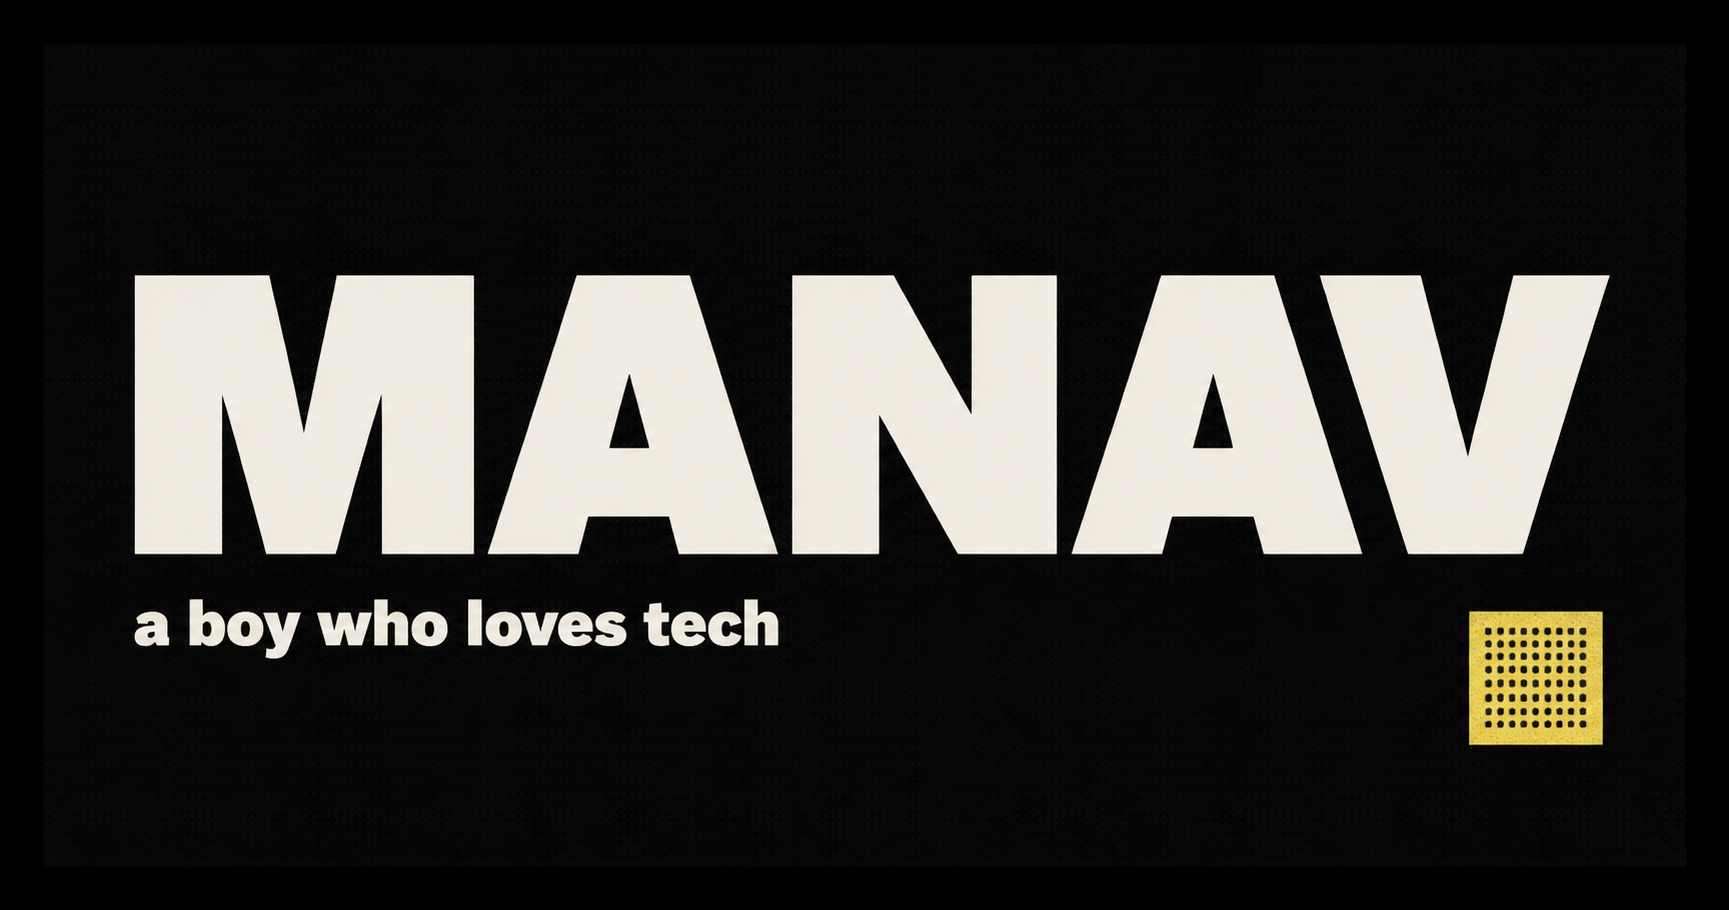
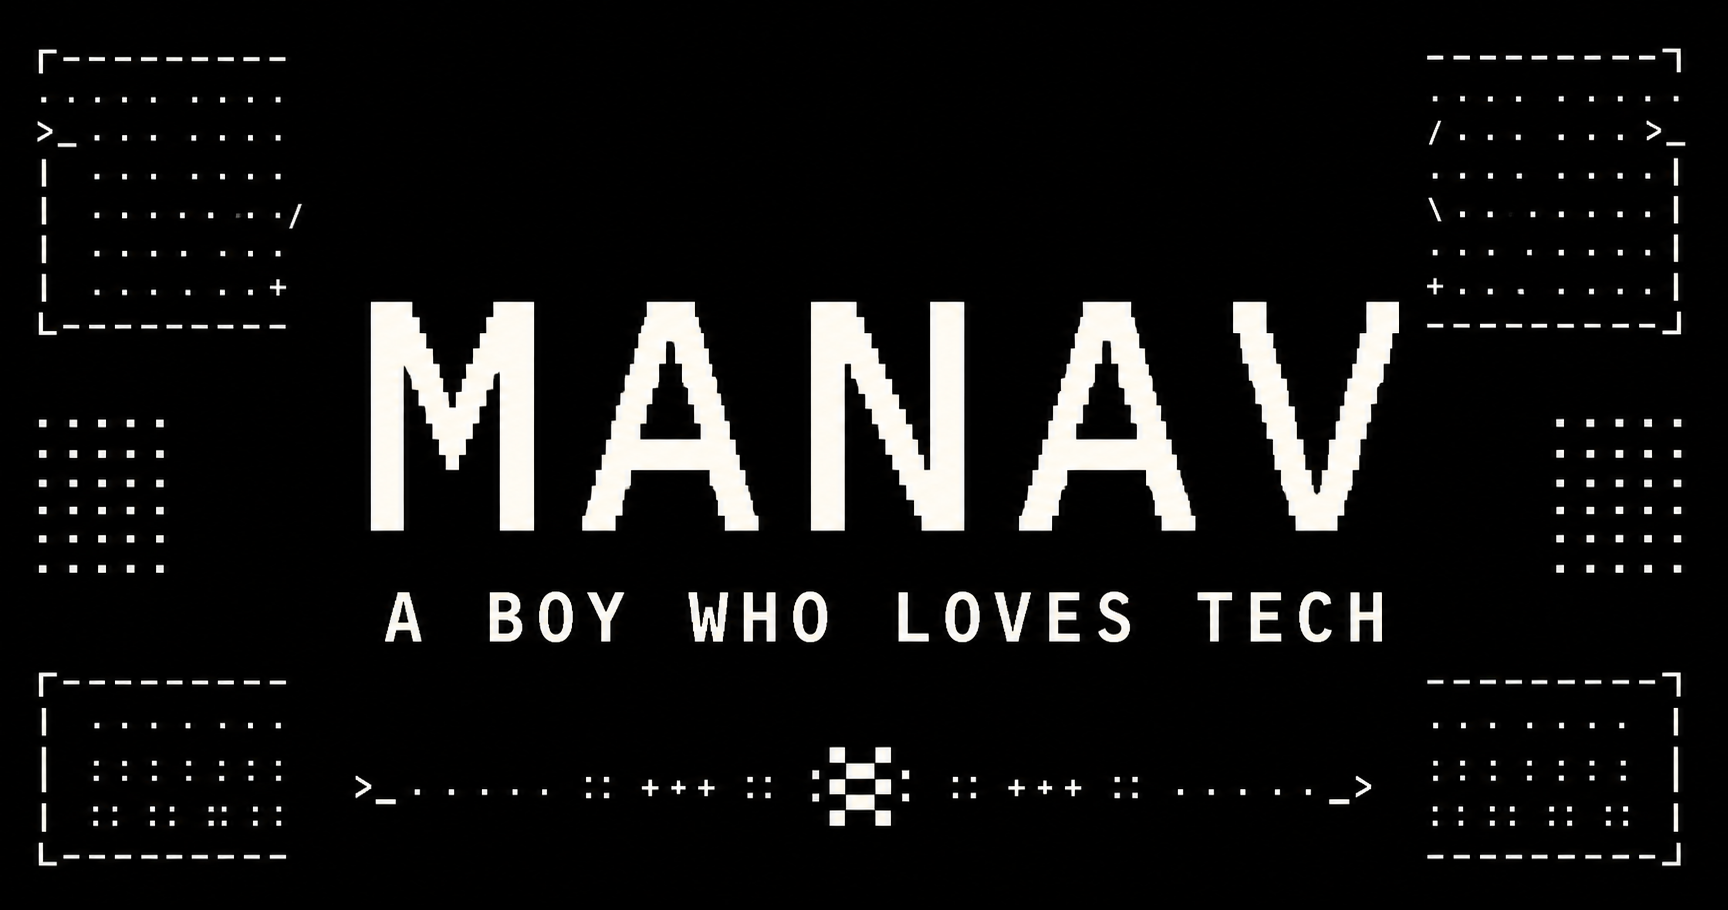
Apply monochrome IBM Plex Mono theme

diff --git a/app/globals.css b/app/globals.css
@@ -1,3 +1,4 @@
+@import url('https://fonts.googleapis.com/css2?family=IBM+Plex+Mono:wght@400;500;600;700&display=swap');
 @import 'tailwindcss';
 @import 'tw-animate-css';
 @import 'shadcn/tailwind.css';
@@ -20,9 +21,9 @@
   --color-border: var(--border);
   --color-input: var(--input);
   --color-ring: var(--ring);
-  --font-sans: Arial, Helvetica, sans-serif;
-  --font-serif: 'Times New Roman', Times, serif;
-  --font-heading: 'Arial Black', Arial, Helvetica, sans-serif;
+  --font-sans: 'IBM Plex Mono', monospace;
+  --font-serif: 'IBM Plex Mono', monospace;
+  --font-heading: 'IBM Plex Mono', monospace;
   --radius-sm: 0;
   --radius-md: 0;
   --radius-lg: 0;
@@ -32,21 +33,21 @@
 :root,
 .dark {
   color-scheme: dark;
-  --background: #050505;
-  --foreground: #f4f0e8;
-  --card: #101010;
-  --card-foreground: #f4f0e8;
-  --primary: #f1be22;
-  --primary-foreground: #050505;
-  --secondary: #1a1a1a;
-  --secondary-foreground: #f4f0e8;
-  --muted: #161616;
-  --muted-foreground: #b8b1a5;
-  --accent: #f1be22;
-  --accent-foreground: #050505;
-  --border: #4a4741;
-  --input: #2a2926;
-  --ring: #f1be22;
+  --background: #000;
+  --foreground: #fff;
+  --card: #000;
+  --card-foreground: #fff;
+  --primary: #fff;
+  --primary-foreground: #000;
+  --secondary: #000;
+  --secondary-foreground: #fff;
+  --muted: #000;
+  --muted-foreground: rgba(255, 255, 255, 0.72);
+  --accent: #fff;
+  --accent-foreground: #000;
+  --border: rgba(255, 255, 255, 0.55);
+  --input: #000;
+  --ring: #fff;
   --radius: 0px;
 }
 
@@ -63,12 +64,12 @@
     @apply bg-background text-foreground;
     margin: 0;
     min-width: 320px;
-    font-family: 'Times New Roman', Times, serif;
+    font-family: 'IBM Plex Mono', monospace;
   }
 
   ::selection {
-    background: #f1be22;
-    color: #050505;
+    background: #fff;
+    color: #000;
   }
 }
 
@@ -877,4 +878,137 @@ a {
     animation-duration: 0.01ms !important;
     animation-iteration-count: 1 !important;
   }
+}
+
+/* Monochrome portfolio treatment */
+body,
+body * {
+  font-family: 'IBM Plex Mono', monospace !important;
+}
+
+html,
+body,
+.landing-frame,
+.site-frame,
+.site-header,
+.site-footer,
+.page-title-block,
+.intro-panel,
+.content-section,
+.skills-panel,
+.social-panel,
+.design-card {
+  background: #000;
+  color: #fff;
+}
+
+.landing-frame::before {
+  background-image: radial-gradient(rgba(255, 255, 255, 0.18) 0.7px, transparent 0.7px);
+}
+
+.tint-olive,
+.tint-sage,
+.tint-salmon,
+.tint-peach,
+.tint-lime,
+.tint-sky,
+.tint-periwinkle {
+  background: #000;
+  border-color: rgba(255, 255, 255, 0.55);
+}
+
+.site-frame :is(p, span, h1, h2, h3, h4, a, dt, dd, small, li),
+.site-brand span,
+.eyebrow,
+.section-kicker,
+.project-status,
+.project-index,
+.education-years,
+.skills-list dt,
+.design-card-caption > p {
+  color: #fff;
+}
+
+.intro-copy,
+.education-row p:last-child,
+.skills-list dd,
+.social-list small,
+.projects-section-head > p,
+.software-card-content > p,
+.design-card-caption span,
+.site-footer {
+  color: rgba(255, 255, 255, 0.72);
+}
+
+.intro-copy strong {
+  color: #fff;
+}
+
+.intro-mark {
+  filter: grayscale(1) contrast(2);
+}
+
+.site-header,
+.site-footer,
+.page-title-block,
+.intro-panel,
+.content-section,
+.skills-panel,
+.social-panel,
+.design-card,
+.education-row,
+.social-list a,
+.skills-list > div,
+.section-heading-row,
+.section-number,
+.project-links,
+.project-links a,
+.software-card,
+.software-card-header,
+.project-index,
+.project-status,
+.design-card-caption,
+.design-card-wide .design-card-caption {
+  border-color: rgba(255, 255, 255, 0.55);
+}
+
+.site-nav a[aria-current='page'],
+.section-number {
+  background: #fff;
+  color: #000;
+}
+
+.site-nav a[aria-current='page'] *,
+.section-number * {
+  color: #000;
+}
+
+.retro-button,
+.archive-link,
+.site-footer a {
+  border-color: #fff;
+  color: #fff;
+  background: #000;
+}
+
+.retro-button:focus-visible,
+.site-nav a:focus-visible,
+.site-brand:focus-visible,
+.project-links a:focus-visible,
+.archive-link:focus-visible,
+.social-list a:focus-visible,
+.site-footer a:focus-visible {
+  outline-color: #fff;
+}
+
+.design-card img {
+  filter: grayscale(1) contrast(1.15);
+}
+
+.software-card,
+.software-card-header,
+.software-card-content,
+.software-card-content ul,
+.project-links {
+  color: #fff;
 }

diff --git a/components/ascii-text.jsx b/components/ascii-text.jsx
@@ -30,15 +30,8 @@ uniform float uTime;
 uniform sampler2D uTexture;
 
 void main() {
-  float time = uTime;
-  vec2 pos = vUv;
-
-  float move = sin(time + mouse) * 0.01;
-  float r = texture2D(uTexture, pos + cos(time * 2. - time + pos.x) * 0.01).r;
-  float g = texture2D(uTexture, pos + tan(time * 0.5 + pos.x - time) * 0.01).g;
-  float b = texture2D(uTexture, pos - cos(time * 2. + time + pos.y) * 0.01).b;
-  float a = texture2D(uTexture, pos).a;
-  gl_FragColor = vec4(r, g, b, a);
+  vec4 textureColor = texture2D(uTexture, vUv);
+  gl_FragColor = textureColor;
 }
 `;
 
@@ -171,7 +164,7 @@ class AsciiFilter {
 }
 
 class CanvasTxt {
-  constructor(text, { fontSize = 200, fontFamily = 'Arial', color = '#fdf9f3' } = {}) {
+  constructor(text, { fontSize = 200, fontFamily = 'IBM Plex Mono', color = '#fdf9f3' } = {}) {
     this.canvas = document.createElement('canvas');
     this.context = this.canvas.getContext('2d');
     this.text = text;
@@ -461,10 +454,10 @@ export default function ASCIIText({
           text-align: left;
           position: absolute;
           inset: 0;
-          color: #f1be22;
+          color: #fdf9f3;
           background: transparent;
-          -webkit-text-fill-color: #f1be22;
-          text-shadow: 0 0 3px rgba(241, 190, 34, 0.38);
+          -webkit-text-fill-color: #fdf9f3;
+          text-shadow: 0 0 3px rgba(253, 249, 243, 0.38);
           font-weight: 600;
           z-index: 9;
           mix-blend-mode: normal;
@@ -476,8 +469,8 @@ export default function ASCIIText({
           inset: 0;
           display: grid;
           place-items: center;
-          color: #f1be22;
-          font: 900 clamp(4.75rem, 18vw, 10rem)/0.86 Arial Black, Arial, sans-serif;
+          color: #fdf9f3;
+          font: 700 clamp(4.75rem, 18vw, 10rem)/0.86 'IBM Plex Mono', monospace;
           letter-spacing: -0.075em;
           text-transform: uppercase;
         }

diff --git a/app/page.tsx b/app/page.tsx
@@ -16,7 +16,7 @@ export default function Home() {
               enableWaves
               asciiFontSize={10}
               textFontSize={420}
-              textColor="#f1be22"
+              textColor="#fdf9f3"
               planeBaseHeight={18}
             />
           </div>
